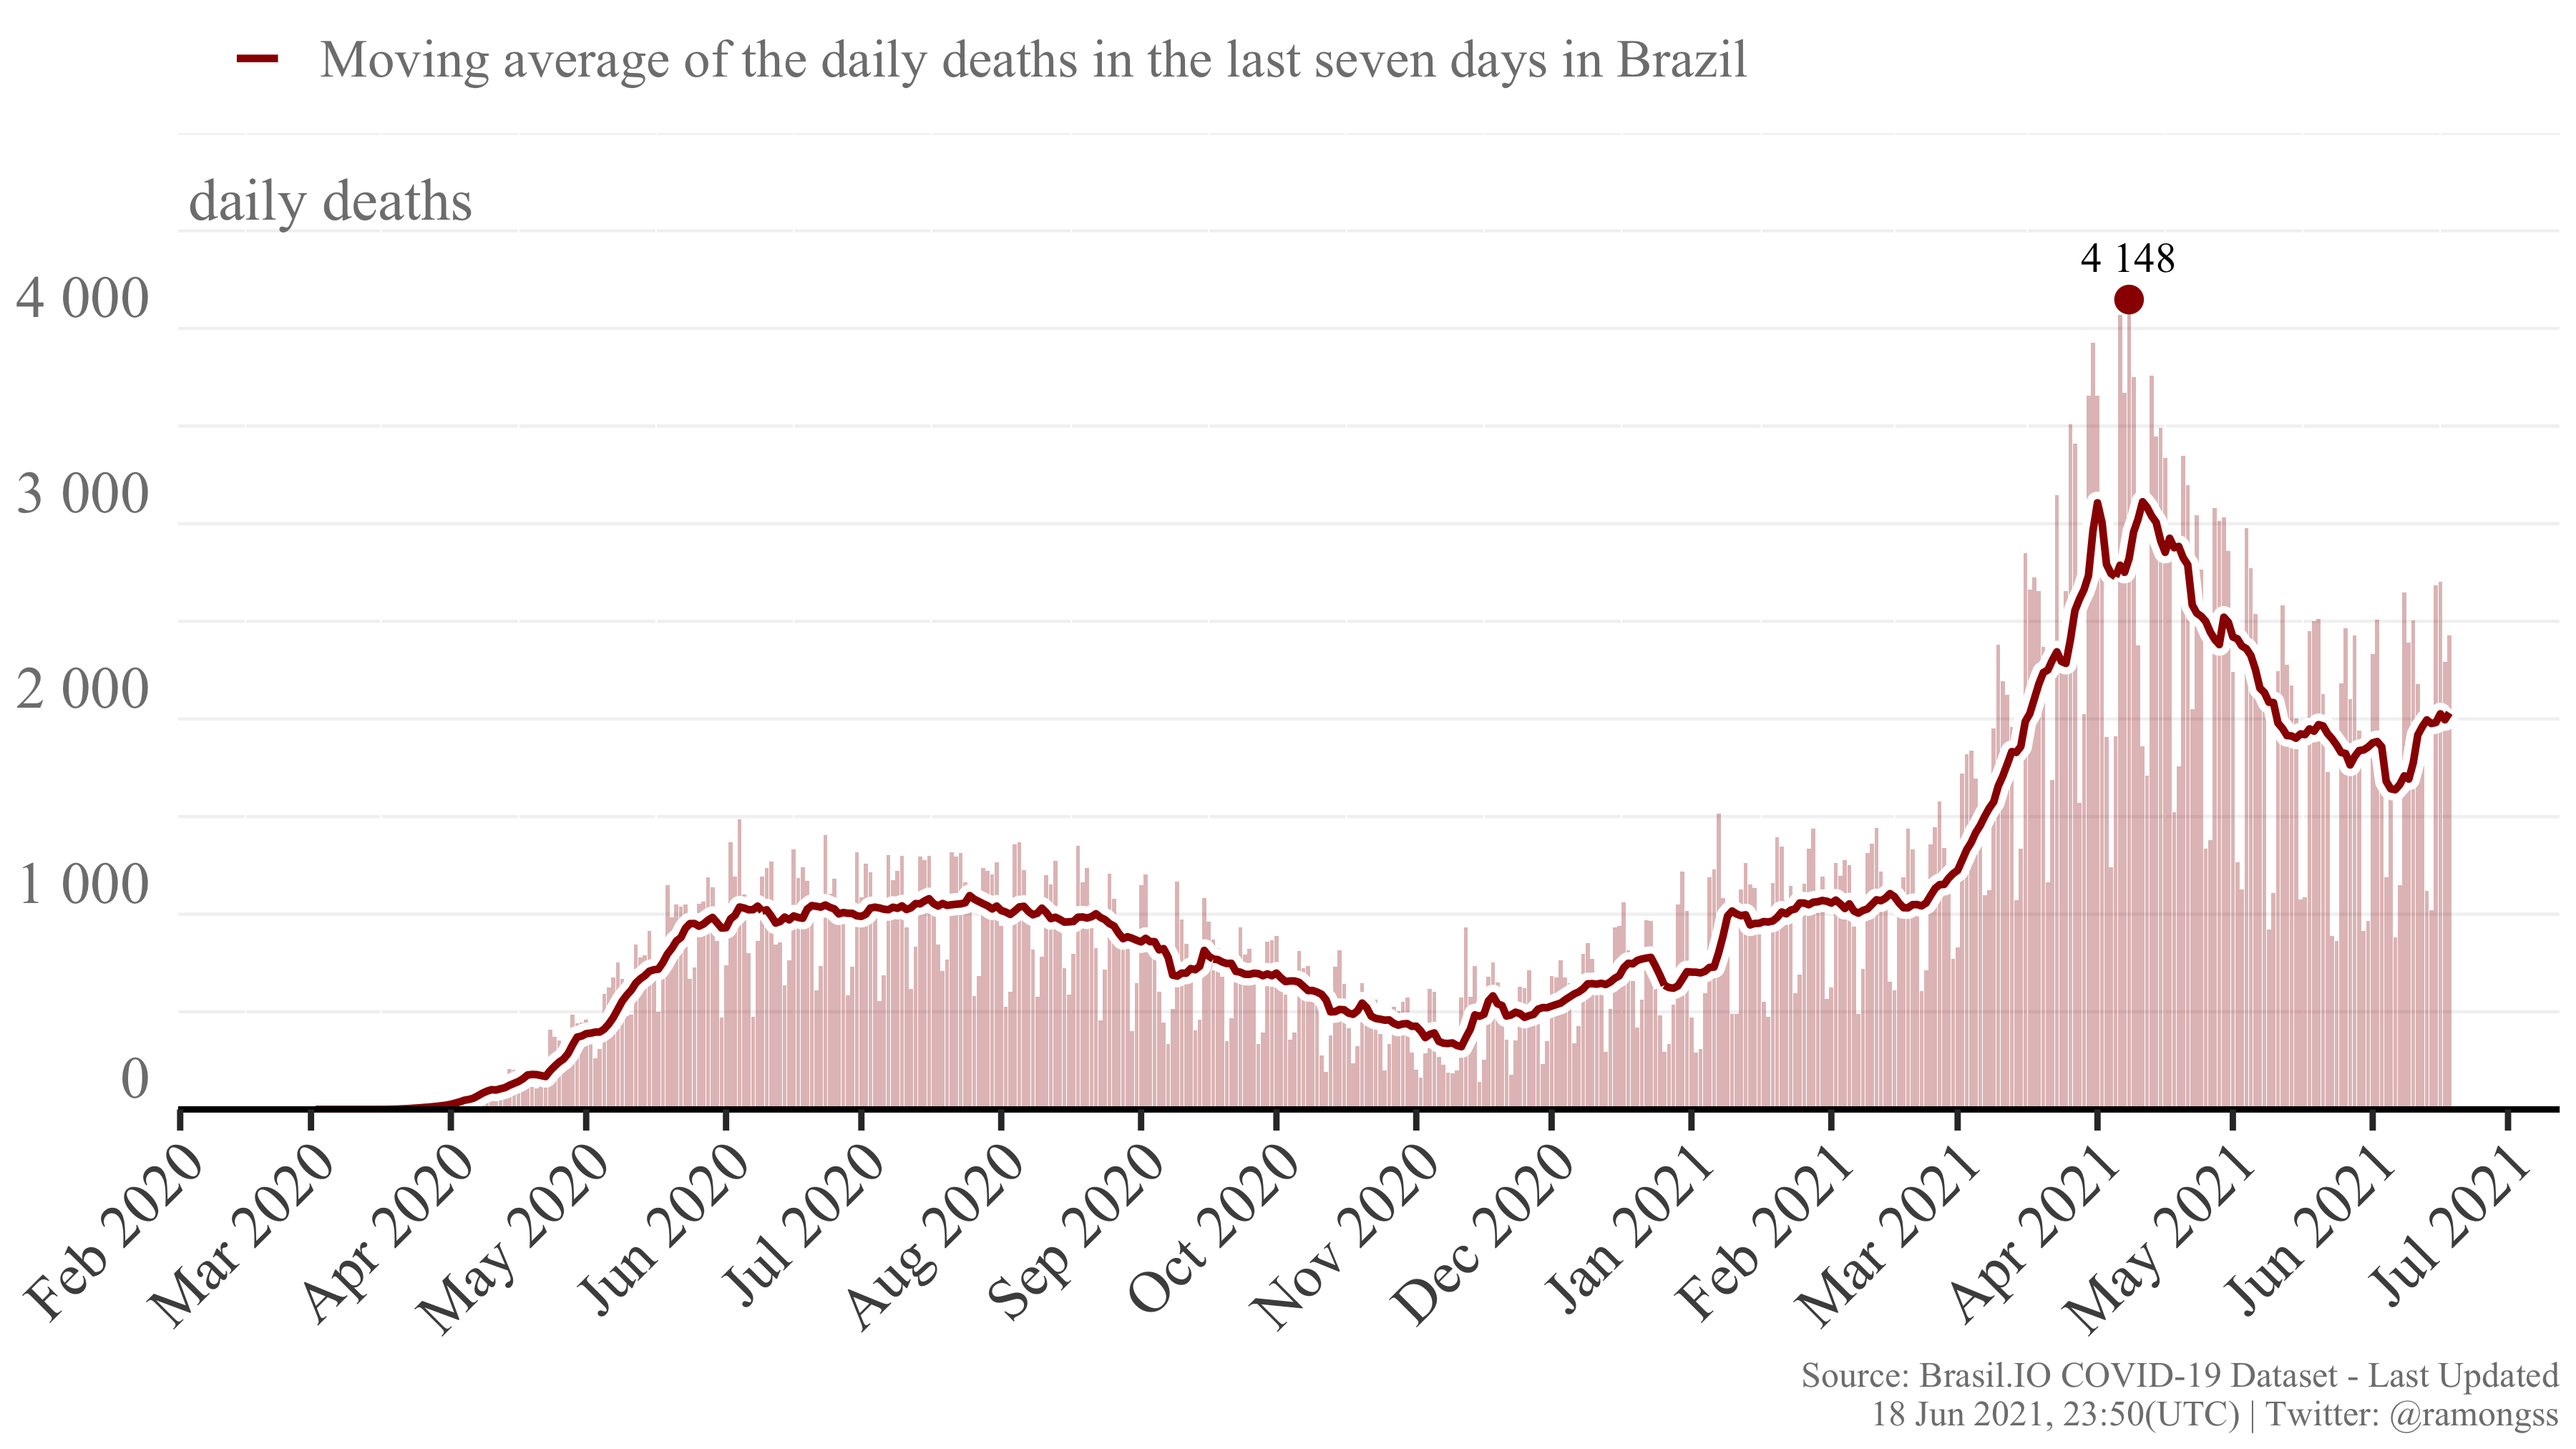
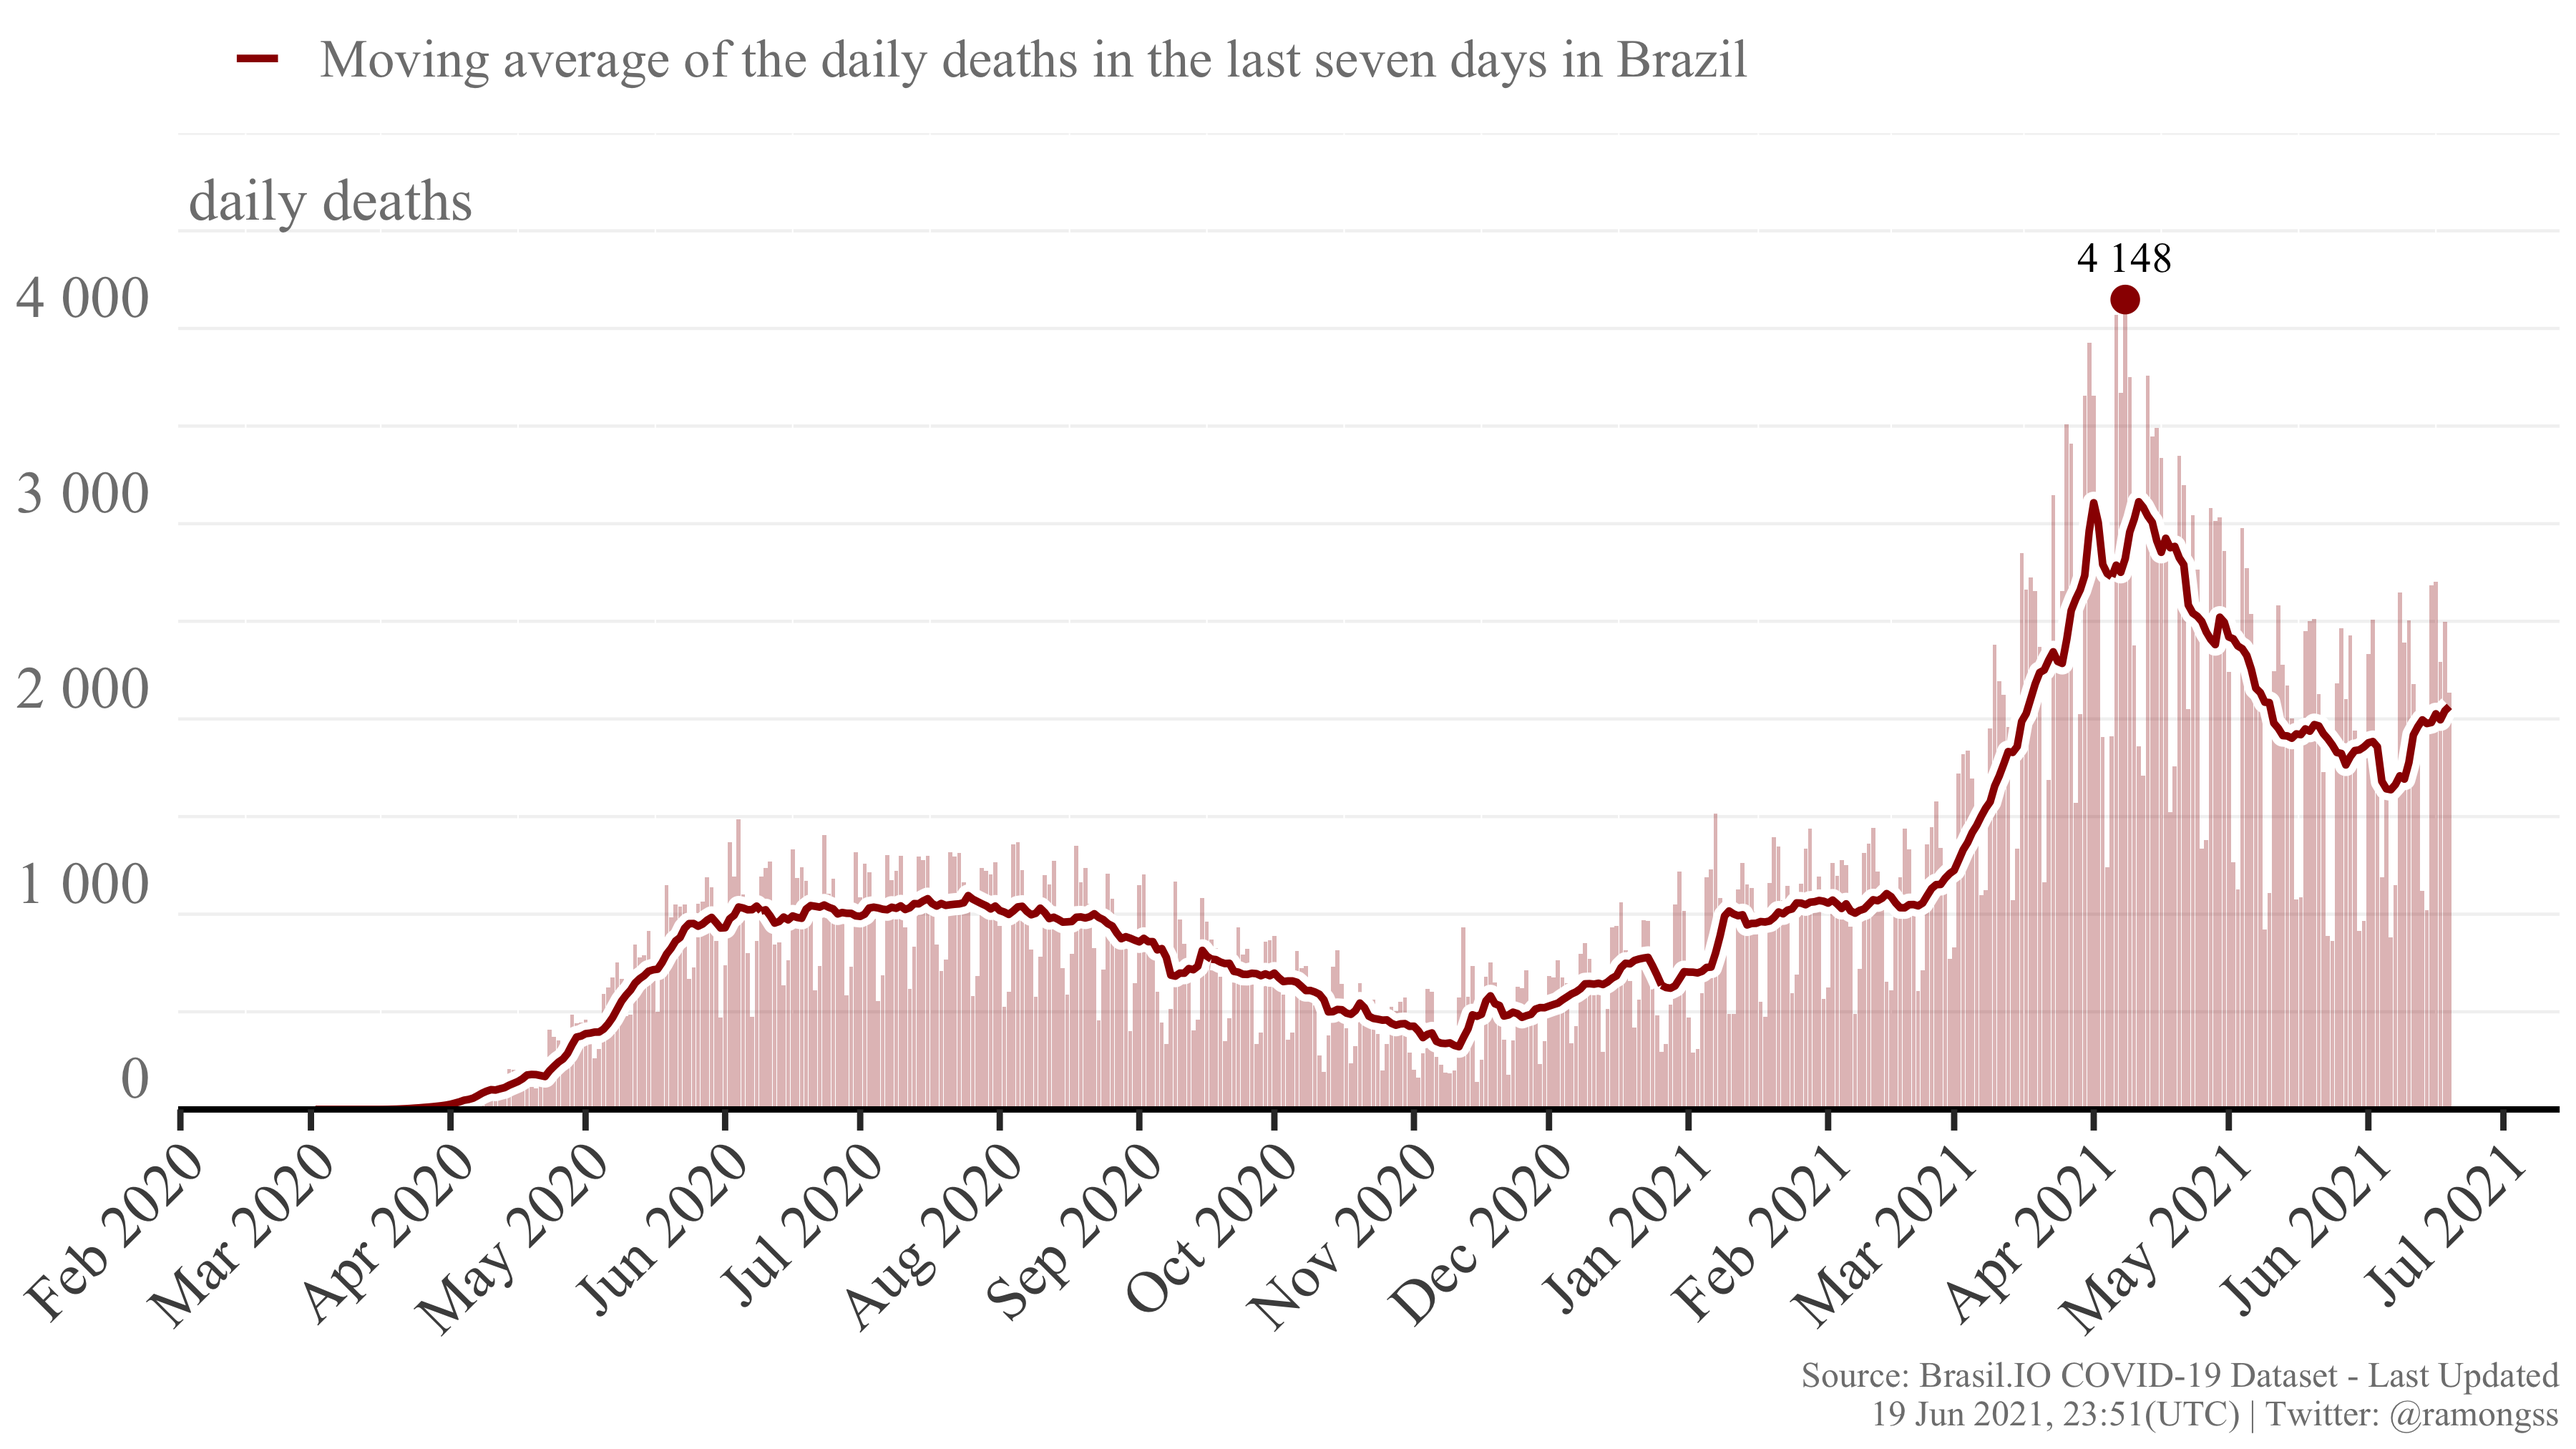
Re-build README.Rmd

diff --git a/README.md b/README.md
@@ -27,8 +27,8 @@ download_brasilio_table <- function(dataset = "covid19", table_name){
 
 ## COVID-19 Confirmed cases
 
-Currently, Brazil has a total of **17,808,472** confirmed cases at **18
-Jun, 2021**, with **92,683** new confirmed cases. The daily maximum
+Currently, Brazil has a total of **17,887,189** confirmed cases at **19
+Jun, 2021**, with **75,956** new confirmed cases. The daily maximum
 incidence was **98,261** confirmed cases at **25 Mar, 2021**. Here
 follows the Figure showing the confirmed case incidence as the bars, and
 the line as the moving average of the last 7 days.
@@ -37,8 +37,8 @@ the line as the moving average of the last 7 days.
 
 ## COVID-19 Deaths
 
-Currently, Brazil has a total of **498,831** deaths at **18 Jun, 2021**,
-with **2,426** new deaths. The daily maximum deaths incidence was
+Currently, Brazil has a total of **501,036** deaths at **19 Jun, 2021**,
+with **2,133** new deaths. The daily maximum deaths incidence was
 **4,148** deaths at **08 Apr, 2021**. Here follows the Figure showing
 the deaths incidence as the bars, and the line as the moving average of
 the last 7 days.
@@ -49,4 +49,4 @@ the last 7 days.
 
 This page is daily updated automatically using Github Actions.
 
-*Last update: 18 Jun 2021, 23:50 (UTC).*
+*Last update: 19 Jun 2021, 23:51 (UTC).*
